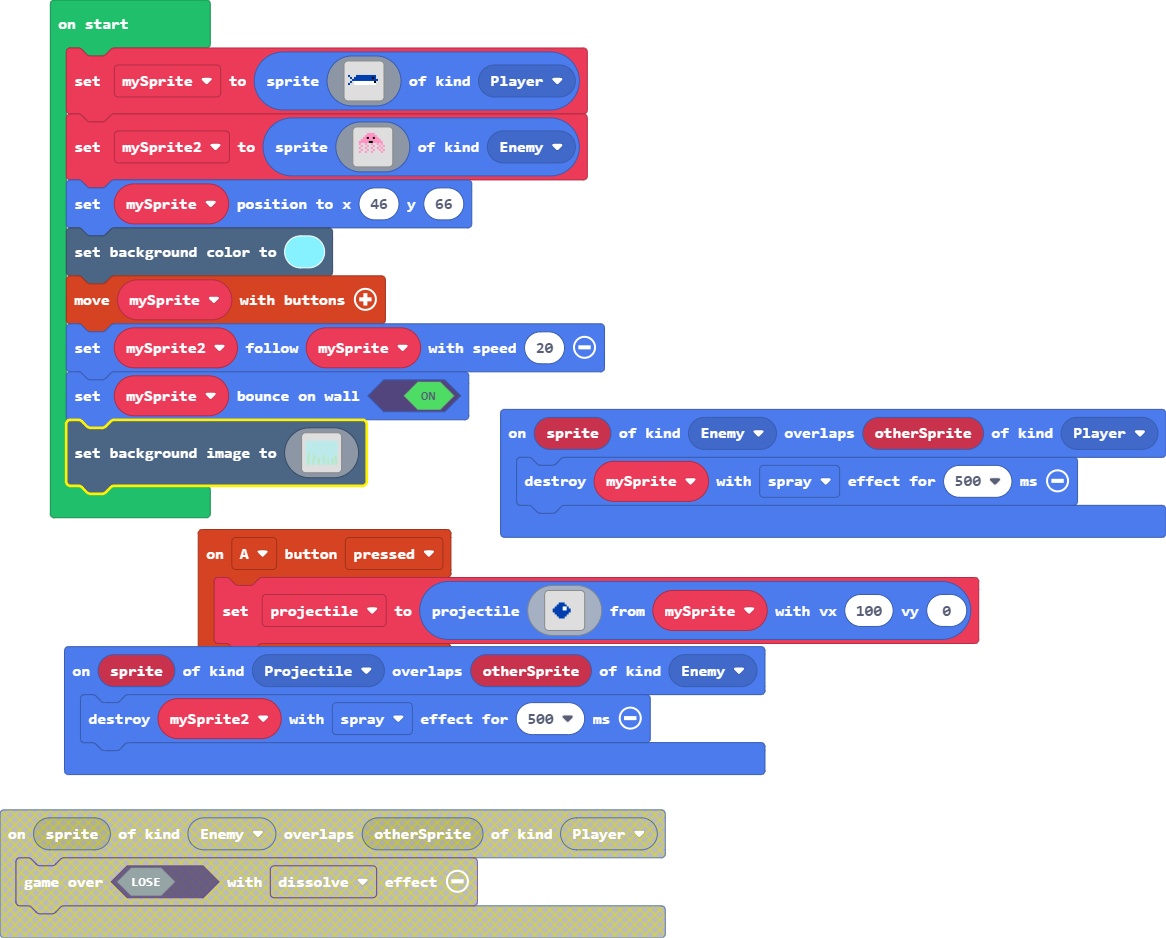
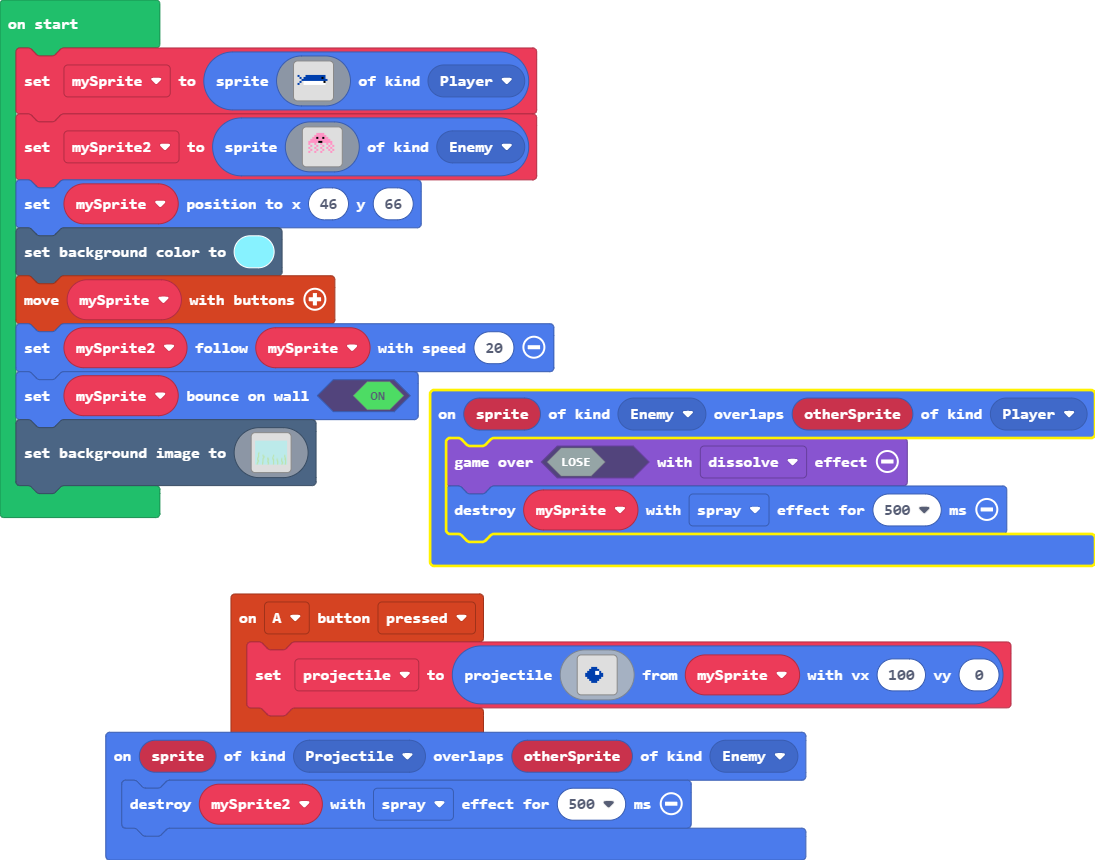
Update main.blocks, main.ts

diff --git a/main.ts b/main.ts
@@ -19,14 +19,11 @@ controller.A.onEvent(ControllerButtonEvent.Pressed, function () {
         `, mySprite, 100, 0)
 })
 sprites.onOverlap(SpriteKind.Enemy, SpriteKind.Player, function (sprite, otherSprite) {
-    info.changeLifeBy(-1)
-})
-info.onLifeZero(function () {
-    game.over(false, effects.melt)
+    game.over(false, effects.dissolve)
+    mySprite.destroy(effects.spray, 500)
 })
 sprites.onOverlap(SpriteKind.Projectile, SpriteKind.Enemy, function (sprite, otherSprite) {
-    mySprite2.destroy(effects.spray, 200)
-    info.changeScoreBy(1)
+    mySprite2.destroy(effects.spray, 500)
 })
 let projectile: Sprite = null
 let mySprite2: Sprite = null
@@ -67,9 +64,10 @@ mySprite2 = sprites.create(img`
     . . . . . . . . . . . . . . . . 
     . . . . . . . . . . . . . . . . 
     `, SpriteKind.Enemy)
-mySprite2.follow(mySprite, 20)
 mySprite.setPosition(46, 66)
 scene.setBackgroundColor(9)
+controller.moveSprite(mySprite)
+mySprite2.follow(mySprite, 20)
 mySprite.setBounceOnWall(true)
 scene.setBackgroundImage(img`
     9999999999999999999999999999999999999999999999999999999999999999999999999999999999999999999999999999999999999999999999999999999999999999999999999999999999999999
@@ -193,5 +191,3 @@ scene.setBackgroundImage(img`
     9999999977777999999999999999999999977777999999999999999999999997777799999999999999999999977777999999999999999997777799999999999999997777779999999999777777799999
     9999999977777999999999999999999999977777999999999999999999999997777799999999999999999999977777999999999999999997777799999999999999997777799999999999777777799999
     `)
-info.setLife(3)
-controller.moveSprite(mySprite)
